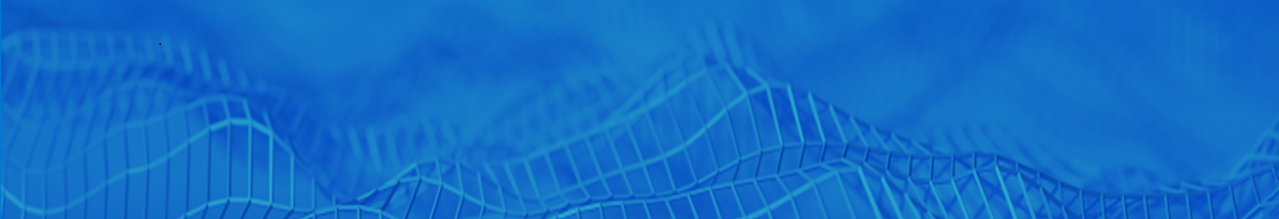
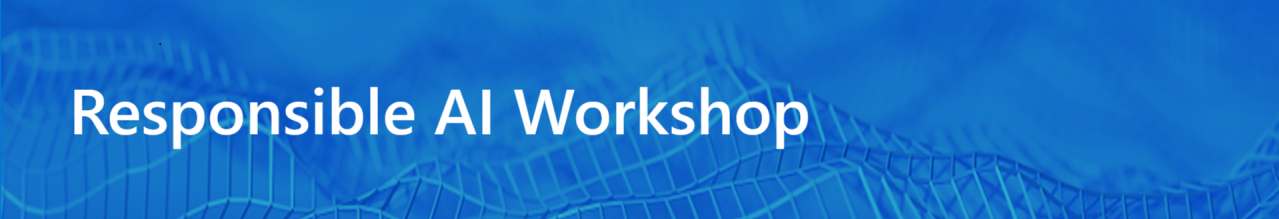
Updates for the June 2024 release
Refresh of the Responsible AI Workshop

Changed region(s): [[0.0305, 0.3836, 0.6403, 0.6849]]

diff --git a/README.md b/README.md
@@ -1,5 +1,5 @@
 
-# Responsible AI Workshop
+![Workshop logo](https://github.com/microsoft/responsible-ai-workshop/blob/main/rai_ws_banner.png)
 
 Responsible innovation is top of mind. As such, the tech industry as well as a growing number of organizations of all kinds in their digital transformation are being called upon to develop and deploy (non-Generative vs. Generative) Artificial Intelligence (AI) technologies and Machine Learning (ML)-powered systems (products or services) and/or features (all referred as to AI systems below) more responsibly. And yet many organizations implementing such AI systems report being unprepared to address AI risks and failures, and struggle with new challenges in terms of governance, security and compliance.
 
@@ -84,4 +84,3 @@ Privacy information can be found at https://privacy.microsoft.com/en-us/
 Microsoft and any contributors reserve all other rights, whether under their respective copyrights, patents,
 or trademarks, whether by implication, estoppel or otherwise.
 
-![Workshop logo](https://github.com/microsoft/responsible-ai-workshop/blob/main/rai_ws_banner.png)
